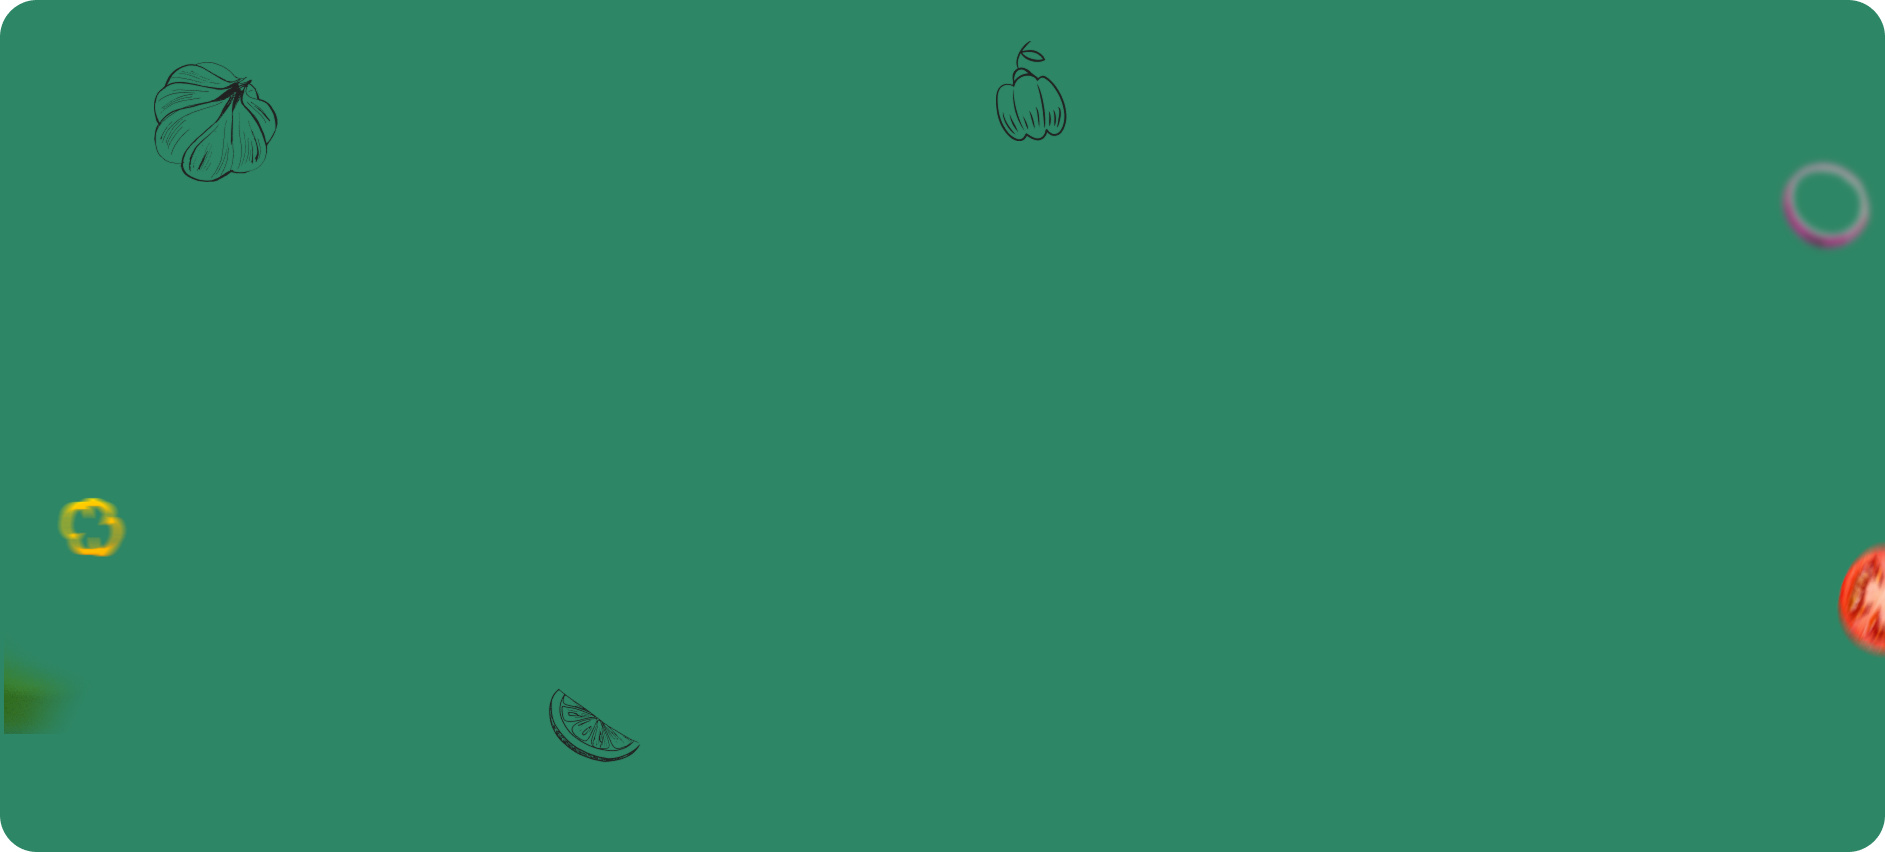
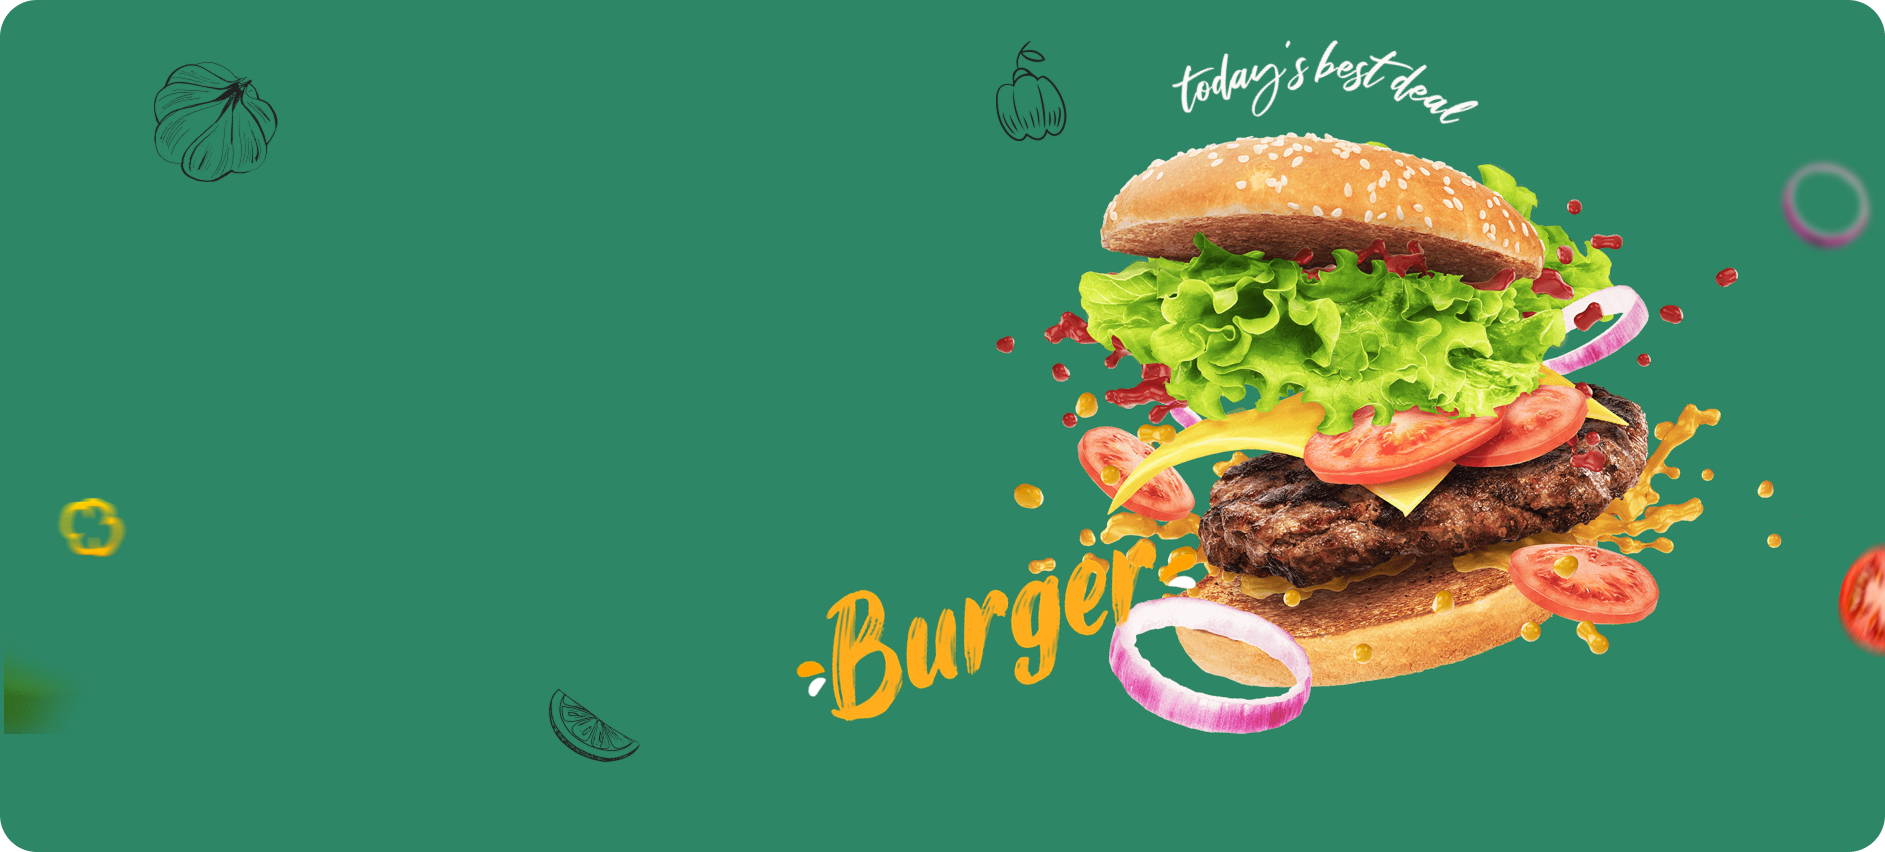
feat: update fonts and enhance Home page accessibility
- Replaced font variables in `globals.css` with DM Sans and Poppins for improved typography.
- Updated `RootLayout` to apply new fonts to the body for better readability.
- Enhanced Home page structure with a skip link for accessibility and improved navigation.
- Redesigned the main section with a hero image and call-to-action buttons for a more engaging user experience.
- Added new decorative SVG images to enrich the visual design of the Home page.

diff --git a/app/(website)/page.tsx b/app/(website)/page.tsx
@@ -1,7 +1,9 @@
 import { Metadata } from 'next';
 import Image from 'next/image';
-import { Container } from '../_components/shared';
+import Link from 'next/link';
 import { Button } from '../_components/ui';
+import { Container } from '../_components/shared';
+import { cn } from '../_lib';
 
 export const metadata: Metadata = {
   title: 'Eat a Box - The best way to eat a box',
@@ -10,44 +12,81 @@ export const metadata: Metadata = {
 
 export default function Home() {
   return (
-    <main>
-      <section className="min-h-[550px] sm:min-h-[600px] bg-primary-light flex justify-center items-center">
-        <Container className="grid grid-cols-1 gap-10 sm:grid-cols-2 sm:gap-20 sm:items-center">
-          {/* Text content section */}
-
-          <div className="space-y-6 text-center sm:text-left pt-12 sm:pt-0 text-white">
-            <h1 className="text-4xl font-bold">Healthy Food Made Easy!</h1>
-            <p className="text-lg">
-              Fresh meals from your favorite restaurants, delivered to your door
-              or ready for pickup.
-            </p>
-
-            <div className="space-x-4">
-              <Button>Order Now</Button>
-              <Button variant="secondary">Learn More</Button>
+    <>
+      {/* Skip link for accessibility */}
+      <a
+        href="#main-content"
+        className="sr-only focus:not-sr-only absolute z-50 bg-white text-primary px-4 py-2 rounded shadow"
+        tabIndex={0}>
+        Skip to main content
+      </a>
+      <main id="main-content" role="main">
+        {/* Hero section */}
+        <section
+          className="relative overflow-hidden mt-4 md:rounded-2xl max-[380px]:h-[120vh] h-screen md:h-[70vh]"
+          role="banner"
+          aria-label="Hero section showcasing healthy food">
+          {/* Image responsive en background */}
+          <Image
+            src="/images/banner/background-mobile.png"
+            alt="Burger eating a box"
+            fill
+            sizes="(max-width: 768px) 100vw, 100vw"
+            className="object-cover object-center md:hidden"
+            priority
+            aria-hidden="true"
+          />
+          <Image
+            src="/images/banner/background-desktop.png"
+            alt="Burger eating a box"
+            fill
+            sizes="(min-width: 768px) 100vw, 100vw"
+            className="object-cover object-center hidden md:block"
+            priority
+            aria-hidden="true"
+          />
+          <Container
+            className={cn(
+              'absolute flex flex-col items-center justify-center md:items-start md:justify-start gap-10 max-w-lg sm:max-w-xl lg:max-w-4xl',
+              'top-10 left-1/2 -translate-x-1/2',
+              'sm:top-1/2 sm:-translate-y-1/2 sm:left-72',
+              'lg:top-1/2 lg:-translate-y-1/2 lg:left-[28rem]'
+            )}
+            role="presentation">
+            <div className=" text-center md:text-left text-white space-y-4">
+              <h1 className="text-5xl md:text-[6vw] lg:text-7xl font-bold leading-tight">
+                Healthy Food Made Easy!
+              </h1>
+              <p className="text-lg text-primary-foreground">
+                Fresh meals from your favorite restaurants, delivered to your
+                door or ready for pickup.
+              </p>
             </div>
-          </div>
 
-          {/* Image section */}
-          <div>
-            <Image
-              src="/images/banner/burger-mobile.png"
-              alt="Eat a Box"
-              width={500}
-              height={500}
-              className="sm:hidden"
-            />
+            <nav
+              aria-label="Main actions"
+              className="w-full grid grid-cols-2 gap-4 max-w-md ">
+              <Button
+                asChild
+                size="lg"
+                aria-label="Order Now"
+                className="focus:ring-2 focus:ring-offset-2 focus:ring-primary min-w-[48px] min-h-[48px]">
+                <Link href="/menu">Order Now</Link>
+              </Button>
+              <Button
+                asChild
+                variant="tertiary"
+                size="lg"
+                aria-label="Browse Menu"
+                className="focus:ring-2 focus:ring-offset-2 focus:ring-primary min-w-[48px] min-h-[48px]">
+                <Link href="/menu">Browse Menu</Link>
+              </Button>
+            </nav>
+          </Container>
+        </section>
 
-            <Image
-              src="/images/banner/burger-desktop.png"
-              alt="Eat a Box"
-              width={800}
-              height={800}
-              className="hidden sm:block"
-            />
-          </div>
-        </Container>
-      </section>
-    </main>
+        
+      </main>
+    </>
   );
 }

diff --git a/app/layout.tsx b/app/layout.tsx
@@ -2,6 +2,19 @@ import React, { PropsWithChildren } from 'react';
 import { Provider } from '@/app/_components/shared';
 import * as z from '@zod/mini';
 
+// Fonts : DM Sans and Poppins
+import { DM_Sans, Poppins } from 'next/font/google';
+
+const dmSans = DM_Sans({
+  weight: ['400', '500', '700'],
+  subsets: ['latin'],
+});
+
+const poppins = Poppins({
+  weight: ['400', '500', '700'],
+  subsets: ['latin'],
+});
+
 // Style
 import './globals.css';
 
@@ -11,14 +24,15 @@ const RootLayoutSchema = z.object({
 
 type RootLayoutProps = z.infer<typeof RootLayoutSchema>;
 
+export const dynamic = 'force-static';
+
 export default function RootLayout({
   children,
   modal,
 }: PropsWithChildren<RootLayoutProps>) {
   return (
     <html lang="en">
-      <head />
-      <body>
+      <body className={`${dmSans.className} ${poppins.className}`}>
         <Provider>
           {children}
 

diff --git a/app/_components/ui/button.tsx b/app/_components/ui/button.tsx
@@ -17,6 +17,8 @@ const buttonVariants = cva(
           "border bg-background shadow-xs hover:bg-accent hover:text-accent-foreground dark:bg-input/30 dark:border-input dark:hover:bg-input/50",
         secondary:
           "bg-secondary text-secondary-foreground shadow-xs hover:bg-secondary/80",
+        tertiary:
+          "bg-accent text-accent-foreground shadow-xs hover:bg-accent/80",
         ghost:
           "hover:bg-accent hover:text-accent-foreground dark:hover:bg-accent/50",
         link: "text-primary underline-offset-4 hover:underline",
@@ -24,7 +26,7 @@ const buttonVariants = cva(
       size: {
         default: "h-9 px-4 py-2 has-[>svg]:px-3",
         sm: "h-8 rounded-md gap-1.5 px-3 has-[>svg]:px-2.5",
-        lg: "h-10 rounded-md px-6 has-[>svg]:px-4",
+        lg: "h-12 rounded-md px-6 has-[>svg]:px-4 text-md",
         icon: "size-9",
       },
     },

diff --git a/app/_components/layout/header/index.tsx b/app/_components/layout/header/index.tsx
@@ -71,7 +71,7 @@ export default function Header() {
             </section>
 
             {/* Desktop Navigation - Hidden on mobile */}
-            <div className="hidden lg:block ">
+            <div className="hidden md:block ">
               <Navigation links={navigationLinks} />
             </div>
 
@@ -100,7 +100,7 @@ export default function Header() {
                 </Link>
               </div>
               {/* Mobile Navigation Menu */}
-              <div className="lg:hidden">
+              <div className="md:hidden">
                 <MobileNavigation links={navigationLinks} />
               </div>
             </section>

diff --git a/app/globals.css b/app/globals.css
@@ -6,8 +6,8 @@
 @custom-variant dark (&:is(.dark *));
 
 @theme {
-  --font-truculenta: var(--font-truculenta);
-  --font-asapCondensed: var(--font-asap-condensed);
+  --font-dm-sans: var(--font-dm-sans);
+  --font-poppins: var(--font-poppins);
 
   --color-lightgreen: hsl(84, 38%, 80%);
   --color-orange: #F6DAA7;
@@ -137,6 +137,6 @@
     @apply border-border outline-ring/50;
   }
   body {
-    @apply bg-background text-foreground ;
+    @apply bg-background text-foreground font-dm-sans;
   }
 }

diff --git a/app/_components/layout/header/mobile-navigation.tsx b/app/_components/layout/header/mobile-navigation.tsx
@@ -66,7 +66,7 @@ export function MobileNavigation({ links }: MobileNavigationProps) {
         <Button
           variant="ghost"
           size="icon"
-          className="lg:hidden bg-primary text-primary-foreground hover:bg-primary/80"
+          className="lg:hidden bg-primary text-primary-foreground hover:bg-primary/80 rounded-full"
           aria-label="Ouvrir le menu de navigation"
           aria-expanded={open}
         >

diff --git a/src/infrastructure/better-auth/lib/auth-session.ts b/src/infrastructure/better-auth/lib/auth-session.ts
@@ -1,10 +1,10 @@
-"use server";
+'use server';
 
-import { auth } from "../config";
-
-import { headers } from "next/headers";
+import { headers } from 'next/headers';
+import { getAuth } from '../config';
 
 export const authSession = async () => {
+  const auth = await getAuth();
   return await auth.api.getSession({
     headers: await headers(),
   });

diff --git a/app/_components/shared/container.tsx b/app/_components/shared/container.tsx
@@ -29,7 +29,7 @@ export default function Container({
   return (
     <Component
       className={cn(
-        'mx-auto px-4 sm:px-6 w-full',
+        'mx-auto px-4 sm:px-6 lg:px-28 w-full',
         {
           'max-w-screen-sm': maxWidth === 'sm',
           'max-w-screen-md': maxWidth === 'md',
